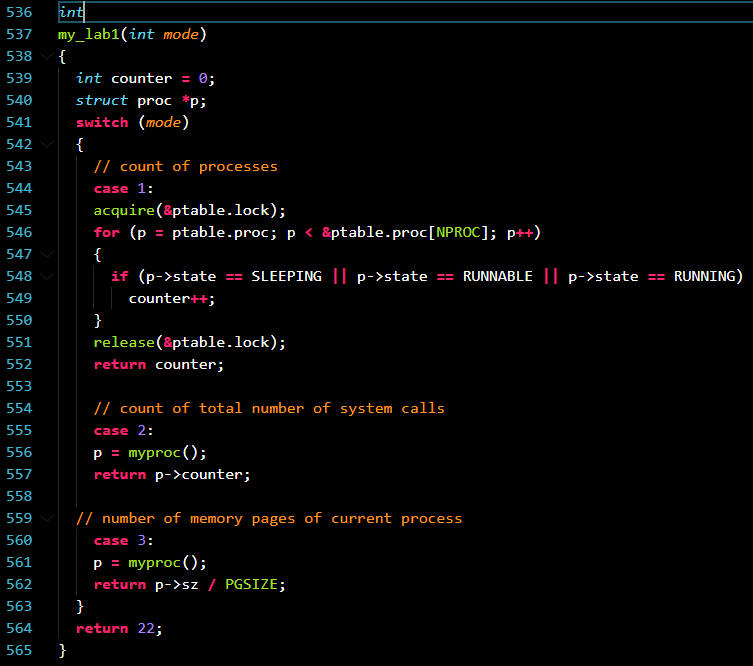
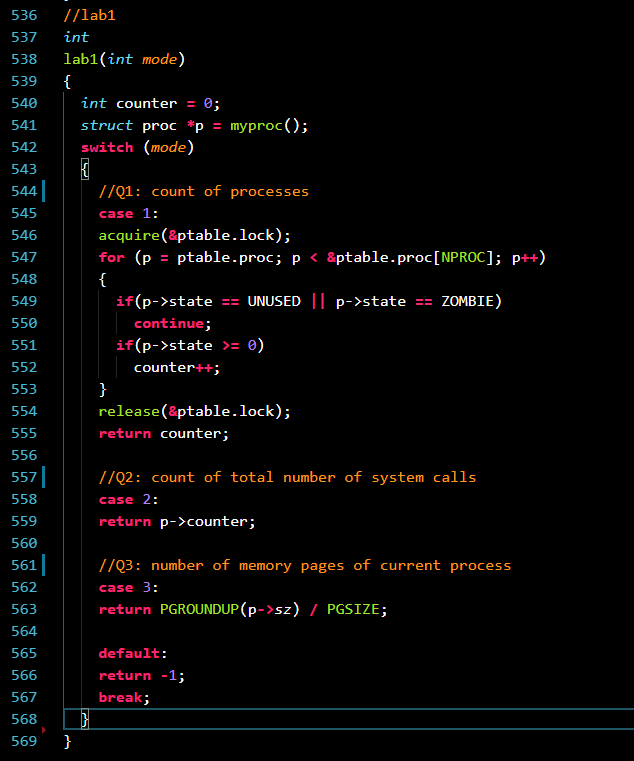
defs

Changed region(s): [[0.0, 0.0, 1.0, 0.991], [0.8091, 0.3303, 0.8691, 0.3604]]

diff --git a/proc.c b/proc.c
@@ -541,7 +541,7 @@ lab1(int mode)
   struct proc *p = myproc(); 
   switch (mode) 
   {
-    // count of processes
+    //Q1: count of processes
     case 1: 
     acquire(&ptable.lock); 
     for (p = ptable.proc; p < &ptable.proc[NPROC]; p++) 
@@ -554,11 +554,11 @@ lab1(int mode)
     release(&ptable.lock);
     return counter;
 
-    // count of total number of system calls
+    //Q2: count of total number of system calls
     case 2: 
     return p->counter; 
 
-  // number of memory pages of current process
+    //Q3: number of memory pages of current process
     case 3:
     return PGROUNDUP(p->sz) / PGSIZE;
 
@@ -566,5 +566,4 @@ lab1(int mode)
     return -1;
     break;
   }
-  return 22;
 }

diff --git a/defs.h b/defs.h
@@ -120,7 +120,7 @@ void            userinit(void);
 int             wait(void);
 void            wakeup(void*);
 void            yield(void);
-int             my_lab1(int);
+int             lab1(int);//lab1
 
 // swtch.S
 void            swtch(struct context**, struct context*);

diff --git a/user.h b/user.h
@@ -23,7 +23,7 @@ int getpid(void);
 char* sbrk(int);
 int sleep(int);
 int uptime(void);
-int lab1(int); 
+int lab1(int); //
 
 // ulib.c
 int stat(const char*, struct stat*);
